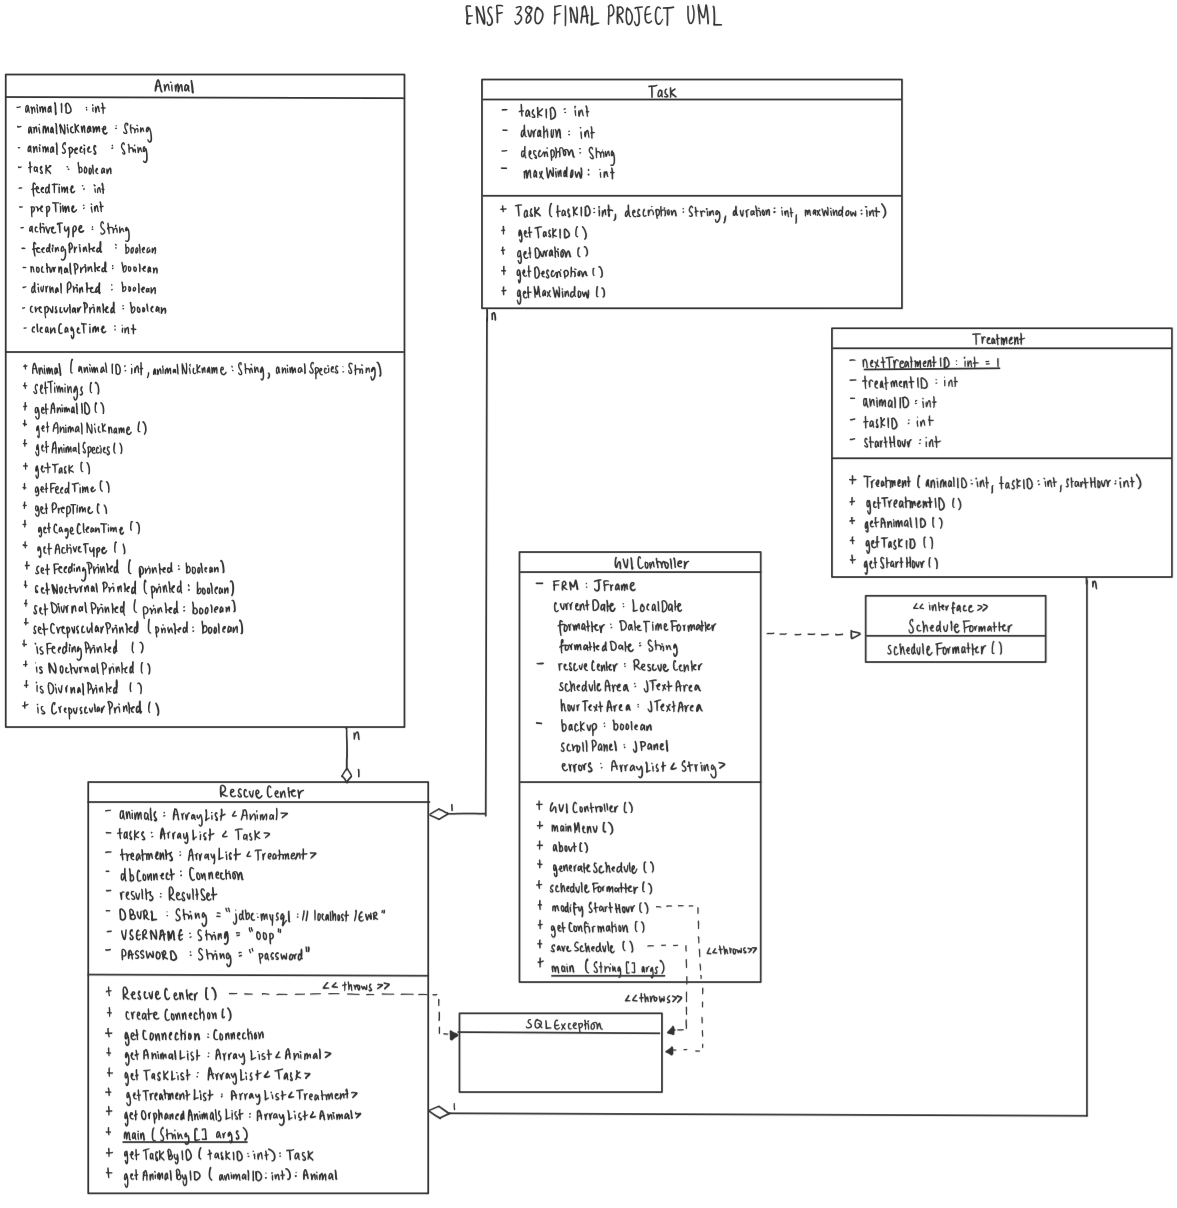
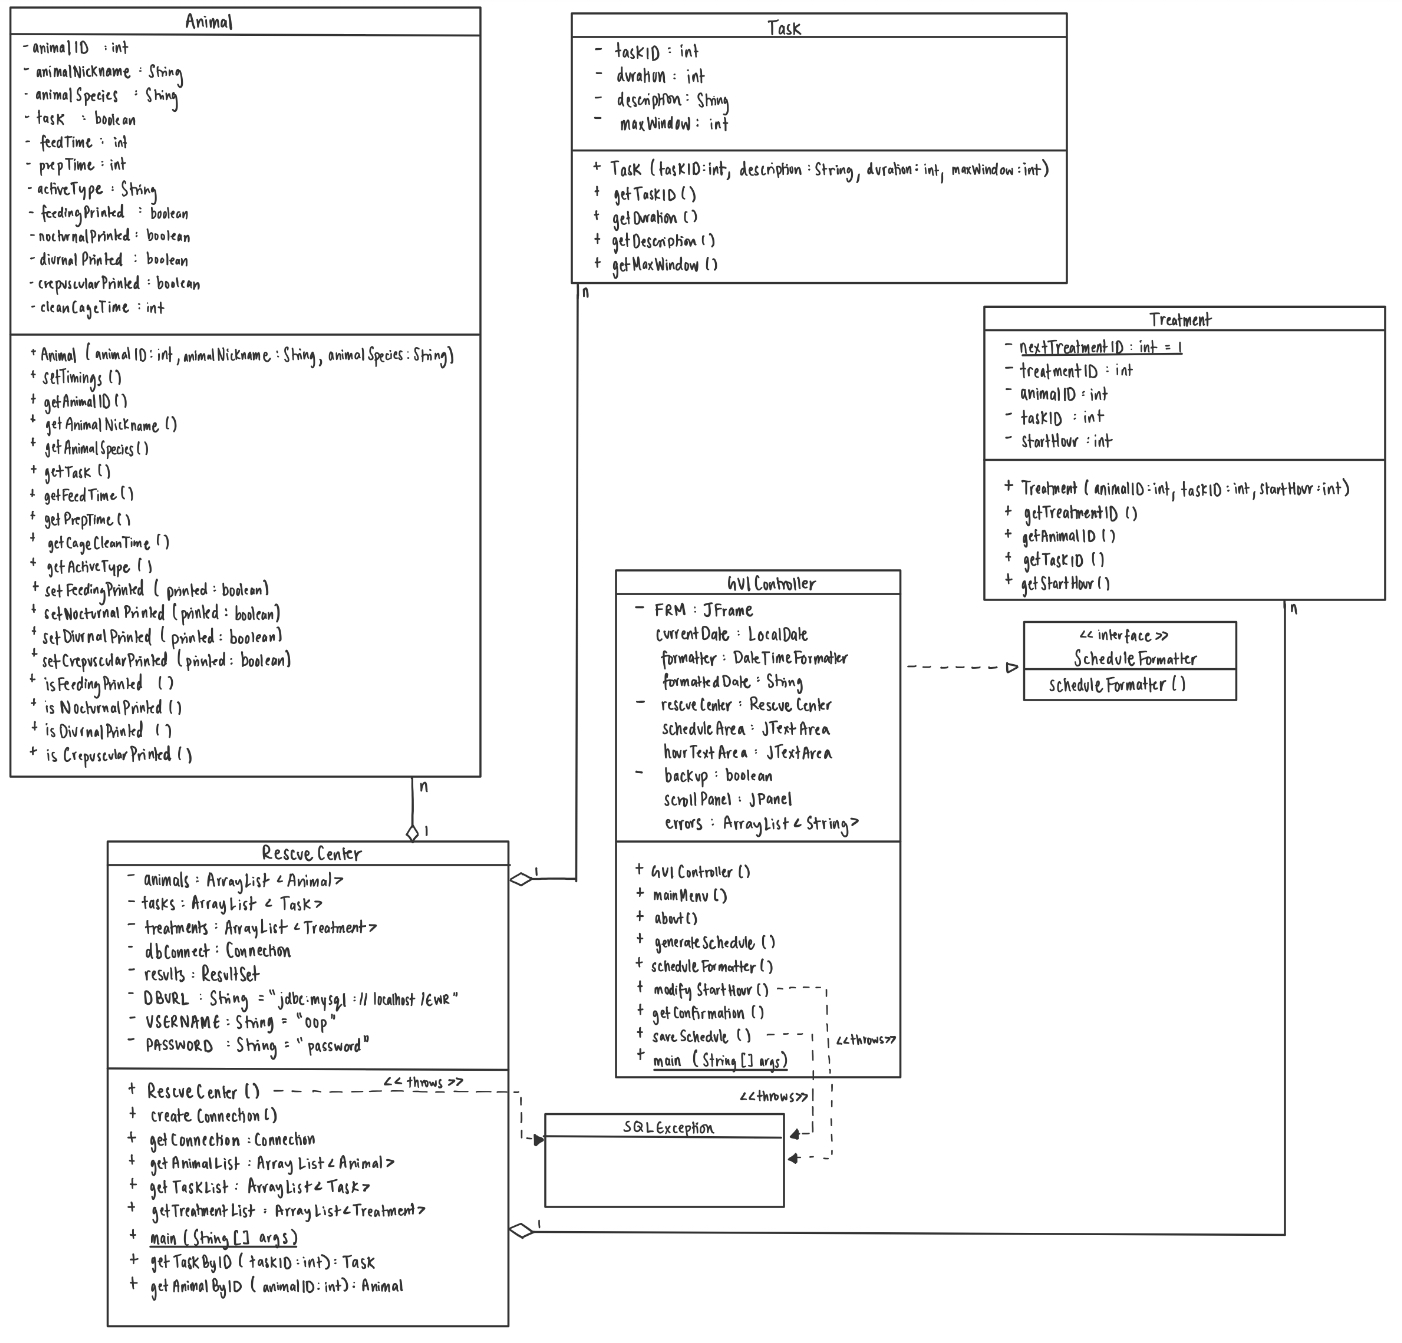
comments and cleaning

diff --git a/edu/ucalgary/oop/GUIController.java b/edu/ucalgary/oop/GUIController.java
@@ -194,6 +194,8 @@ public class GUIController implements ScheduleFormatter{
             boolean unfedDiurnalAnimals = false;
             boolean unfedCrepuscularAnimals = false;
 
+
+            // appends treatments from sql file
             for (Treatment treatment : rescueCenter.getTreatmentList()) {
                 if (treatment.getStartHour() == hour) {
                     int taskID = treatment.getTaskID();
@@ -207,13 +209,16 @@ public class GUIController implements ScheduleFormatter{
                     hasTasks = true;
                 }
             }
- 
+            
+            
             ArrayList<String> foxesFed = new ArrayList<>();
             ArrayList<String> raccoonsFed = new ArrayList<>();
             ArrayList<String> beaversFed = new ArrayList<>();
             ArrayList<String> porcupinesFed = new ArrayList<>();
             ArrayList<String> coyotesFed = new ArrayList<>();
 
+
+            // adds feeding times into schedule - not in sql file
             for (Animal animal : rescueCenter.getAnimalList()) {
                 boolean printed = animal.isFeedingPrinted();
                 if (animal.getActiveType() == "nocturnal") {
@@ -295,6 +300,7 @@ public class GUIController implements ScheduleFormatter{
                 }
             }
  
+            // prints amount of animals from each species that are able to be fed in that hour
             if (foxesFed.size() > 0) {
                 hourSchedule.append("* Feeding - foxes (" + foxesFed.size() + ": " + String.join(", ", foxesFed) + ")\n");
             }
@@ -321,6 +327,8 @@ public class GUIController implements ScheduleFormatter{
                 errors.add("Invalid Schedule: Not all crepuscular animals have been fed.\nContact staff vet or modify start hours");
             }
 
+
+            // add cage cleaning times to schedule - not in sql file
             ArrayList<String> foxesCleaned = new ArrayList<>();
             ArrayList<String> raccoonsCleaned = new ArrayList<>();
             ArrayList<String> beaversCleaned = new ArrayList<>();
@@ -408,6 +416,7 @@ public class GUIController implements ScheduleFormatter{
                 hourSchedule.append("* Cage Cleaning - porcupines (" + porcupinesCleaned.size() + ": " + String.join(", ", porcupinesCleaned) + ")\n");
             }
 
+            // checks if backup volunteers are required is time exceeds an hour
             if (duration > 60) {
                 backup = true; 
                 hourSchedule.append(" [ + backup volunteer]\n");
@@ -415,6 +424,7 @@ public class GUIController implements ScheduleFormatter{
             if (backup == true && duration > 120){
                 errors.add("Invalid Schedule: Too many tasks at " + hour + ":00.\nContact staff vet or modify start hours");
             }
+            // total task time for convenience
             hourSchedule.append("Total task duration: " + duration + "\n");
             if (hasTasks) {
                 hourTextArea.append(hourSchedule.toString());
@@ -603,6 +613,7 @@ public class GUIController implements ScheduleFormatter{
         }
     }
 
+    // used to run GUI
     public static void main (String [] args){
         GUIController gui = new GUIController();
         gui.mainMenu();

diff --git a/edu/ucalgary/oop/Animal.java b/edu/ucalgary/oop/Animal.java
@@ -23,6 +23,8 @@ public class Animal {
     private boolean crepuscularPrinted;
     private int cleanCageTime;
 
+
+    // Animal Constructor
     public Animal(int animalID, String animalNickname, String animalSpecies){
         this.animalID = animalID;
         this.animalNickname = animalNickname;
@@ -119,7 +121,7 @@ public class Animal {
         this.crepuscularPrinted = printed;
     }
 
-    // helper functions
+    // helper functions to check if animal is already printed in schedule
     public boolean isFeedingPrinted() {
         return this.feedingPrinted;
     }

diff --git a/edu/ucalgary/oop/RescueCenter.java b/edu/ucalgary/oop/RescueCenter.java
@@ -97,16 +97,6 @@ public class RescueCenter {
         return this.treatments;
     }
 
-    public ArrayList<Animal> getOrphanedAnimalsList(){
-        ArrayList<Animal> orphanedAnimals = new ArrayList<>();
-        for (Animal animal: animals){
-            if (animal.getAnimalNickname().contains(",")){
-                orphanedAnimals.add(animal);
-            }
-        }
-        return orphanedAnimals;
-    }
-
     public Task getTaskByID(int taskID) {
         for (Task task : tasks) {
             if (task.getTaskID() == taskID) {
